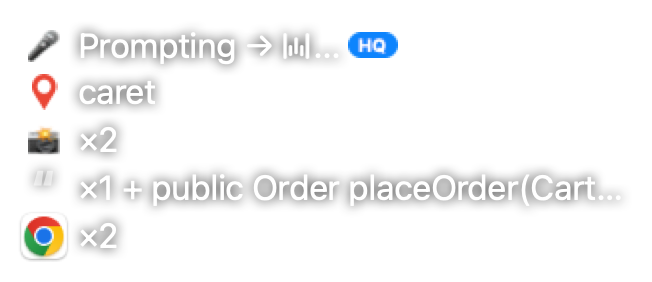
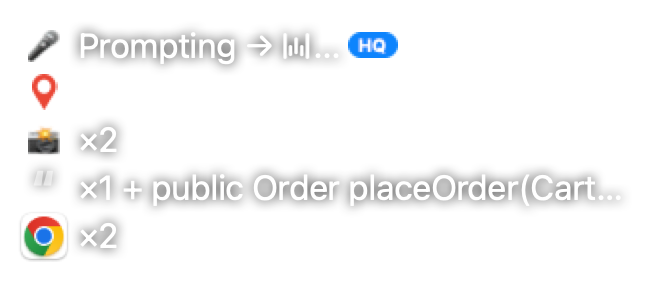
📍 The caret is the pin alone on the chip; 📸 ×1 flashes when picture zero lands
The caret row said `caret` behind the map pin; the pin says it. `bind to
send` wears the same pin and keeps its words. The automatic first frame's
count was quiet (booked before the file exists); the file on disk now
flashes the row's amber wash once.

Changed region(s): [[0.092, 0.2553, 0.2454, 0.3972]]

diff --git a/docs/overlay-states.html b/docs/overlay-states.html
@@ -613,9 +613,9 @@
       <section class="card" id="paste-again">
         <header>
           <h3>Re-paste — ⌘V, after every sentence</h3>
-          <div class="tags"><span class="tag tag-chip" title="bare text beside the cursor — no blur, no shadow, no ✕">chip</span><span class="tag">alpha 0.80</span><span class="tag">218×46 pt</span></div>
+          <div class="tags"><span class="tag tag-chip" title="bare text beside the cursor — no blur, no shadow, no ✕">chip</span><span class="tag">alpha 0.80</span><span class="tag">158×46 pt</span></div>
         </header>
-        <div class="shot"><img src="states/paste-again.png" width="218" height="46" style="opacity:0.8" alt="Re-paste — ⌘V, after every sentence"></div>
+        <div class="shot"><img src="states/paste-again.png" width="158" height="46" style="opacity:0.8" alt="Re-paste — ⌘V, after every sentence"></div>
         <p class="when">Five seconds after every delivered sentence (caret, bound terminal, new session, a held sentence&#x27;s release) and after a cancelled prompt. Never after a cancelled dictation.</p>
         <p class="note"><strong>Q17 (2026-09-28): the clipboard always holds the finished sentence</strong> — the envelope for a prompt, the clean words for a plain one — so the row says <code>Re-paste</code> and <code>⌘V</code>; ⌘⇧P is gone (it was <code>Re-paste ⌘⇧P</code> until 2026-09-28, <code>On the clipboard ⌘V</code> for a few hours, <code>Re-paste ⌘V</code> since). <strong>An ordinary row</strong>, built like <code>☠ Kamikaze</code>: 📋, the words, then the keys in the chip&#x27;s own face. It was a keycap in a window of its own until 2026-09-23 — a white outline round the keys in another font — and Victor read the border and the font as wrong. Unbound, it is the chip&#x27;s only row, which is what puts the chip beside the pointer.</p>
         <code class="slug">paste-again</code>
@@ -706,9 +706,9 @@
       <section class="card" id="prompt-inline">
         <header>
           <h3>The prompt, with its pictures where they were taken</h3>
-          <div class="tags"><span class="tag tag-panel" title="top-left of the screen, blurred, full opacity, ✕ on hover">panel</span><span class="tag">alpha 1.00</span><span class="tag">832×613 pt</span></div>
+          <div class="tags"><span class="tag tag-panel" title="top-left of the screen, blurred, full opacity, ✕ on hover">panel</span><span class="tag">alpha 1.00</span><span class="tag">749×581 pt</span></div>
         </header>
-        <div class="shot"><img src="states/prompt-inline.png" width="832" height="613" style="opacity:1" alt="The prompt, with its pictures where they were taken"></div>
+        <div class="shot"><img src="states/prompt-inline.png" width="749" height="581" style="opacity:1" alt="The prompt, with its pictures where they were taken"></div>
         <p class="when">Word timings placed the markers (ElevenLabs, local): every <code>[📸N…]</code> token in the words.</p>
         <p class="note">2026-10-07, Victor: the panel must show <em>where</em> each thing landed, to check the annotation. A picture token ends its paragraph, captions the picture drawn under it — the ✂ cut-out, or the frame — and the words carry on below. A highlight or a picked element is its own indented paragraph. Frames the words did not take (here the automatic one) stay in the strip. <strong>A frame&#x27;s caption no longer prints the pointer&#x27;s pixels</strong> (<code>[📸2]</code>, not <code>[📸2🖱@1204:388]</code> — 2026-10-17): a yellow dot on the picture says where it was; the agent&#x27;s words keep the numbers.</p>
         <code class="slug">prompt-inline</code>
@@ -736,9 +736,9 @@
       <section class="card" id="prompt-copied">
         <header>
           <h3>The prompt, with what he copied where he copied it</h3>
-          <div class="tags"><span class="tag tag-panel" title="top-left of the screen, blurred, full opacity, ✕ on hover">panel</span><span class="tag">alpha 1.00</span><span class="tag">832×427 pt</span></div>
+          <div class="tags"><span class="tag tag-panel" title="top-left of the screen, blurred, full opacity, ✕ on hover">panel</span><span class="tag">alpha 1.00</span><span class="tag">749×411 pt</span></div>
         </header>
-        <div class="shot"><img src="states/prompt-copied.png" width="832" height="427" style="opacity:1" alt="The prompt, with what he copied where he copied it"></div>
+        <div class="shot"><img src="states/prompt-copied.png" width="749" height="411" style="opacity:1" alt="The prompt, with what he copied where he copied it"></div>
         <p class="when">Auto-attach › Everything I Copy: text and an image copied while the prompt recorded.</p>
         <p class="note">2026-10-17, Victor: <em>&quot;also display the copied text or image from clipboard in the preview&quot;</em>. A copied image is a numbered picture like any other (<code>[📸N 📋 copied]</code>), drawn under its caption; copied text is its own indented paragraph, like a highlight — it used to run on as plain words, indistinguishable from what he said.</p>
         <code class="slug">prompt-copied</code>
@@ -746,9 +746,9 @@
       <section class="card" id="prompt-area-context">
         <header>
           <h3>The prompt, a ✂ area and the screen it was cut from</h3>
-          <div class="tags"><span class="tag tag-panel" title="top-left of the screen, blurred, full opacity, ✕ on hover">panel</span><span class="tag">alpha 1.00</span><span class="tag">501×319 pt</span></div>
+          <div class="tags"><span class="tag tag-panel" title="top-left of the screen, blurred, full opacity, ✕ on hover">panel</span><span class="tag">alpha 1.00</span><span class="tag">509×321 pt</span></div>
         </header>
-        <div class="shot"><img src="states/prompt-area-context.png" width="501" height="319" style="opacity:1" alt="The prompt, a ✂ area and the screen it was cut from"></div>
+        <div class="shot"><img src="states/prompt-area-context.png" width="509" height="321" style="opacity:1" alt="The prompt, a ✂ area and the screen it was cut from"></div>
         <p class="when">A wheel-drag area whose token is in the words.</p>
         <p class="note">2026-10-15, Victor: after the cut-out, the whole screen that goes with it — greyed outside the box, the box lit and ringed red — so it is plain that the entire screen is sent too. Drawn by <code>AreaContext</code>, never written to disk.</p>
         <code class="slug">prompt-area-context</code>
@@ -766,9 +766,9 @@
       <section class="card" id="prompt-move-context">
         <header>
           <h3>The prompt, a ⇧-drag move: red to green</h3>
-          <div class="tags"><span class="tag tag-panel" title="top-left of the screen, blurred, full opacity, ✕ on hover">panel</span><span class="tag">alpha 1.00</span><span class="tag">644×346 pt</span></div>
+          <div class="tags"><span class="tag tag-panel" title="top-left of the screen, blurred, full opacity, ✕ on hover">panel</span><span class="tag">alpha 1.00</span><span class="tag">651×348 pt</span></div>
         </header>
-        <div class="shot"><img src="states/prompt-move-context.png" width="644" height="346" style="opacity:1" alt="The prompt, a ⇧-drag move: red to green"></div>
+        <div class="shot"><img src="states/prompt-move-context.png" width="651" height="348" style="opacity:1" alt="The prompt, a ⇧-drag move: red to green"></div>
         <p class="when">A wheel-drag area with ⇧ / right-click, then a second box: <em>this, moved to there</em>.</p>
         <p class="note">2026-10-15, Victor: the whole screen in a thumbnail, the first box red, the second green, a white arrow from red to green — the same three colours the live overlay draws while he makes the gesture.</p>
         <code class="slug">prompt-move-context</code>
@@ -806,9 +806,9 @@
       <section class="card" id="prompt-long">
         <header>
           <h3>A long transcript</h3>
-          <div class="tags"><span class="tag tag-panel" title="top-left of the screen, blurred, full opacity, ✕ on hover">panel</span><span class="tag">alpha 1.00</span><span class="tag">832×153 pt</span></div>
+          <div class="tags"><span class="tag tag-panel" title="top-left of the screen, blurred, full opacity, ✕ on hover">panel</span><span class="tag">alpha 1.00</span><span class="tag">749×153 pt</span></div>
         </header>
-        <div class="shot"><img src="states/prompt-long.png" width="832" height="153" style="opacity:1" alt="A long transcript"></div>
+        <div class="shot"><img src="states/prompt-long.png" width="749" height="153" style="opacity:1" alt="A long transcript"></div>
         <p class="when">A sentence that does not fit one line — the panel wraps and grows.</p>
         <p class="note">Width is capped at a third of the screen and the height at what is left of it; the transcript row is measured by asking the label, not by a parallel calculation, because any disagreement is a sentence that silently stops.</p>
         <code class="slug">prompt-long</code>
@@ -845,7 +845,7 @@
       </section>
     </div>
 <footer>
-  Generated from <code>OverlayStates.swift</code> · repo at 8653edc · 22 Oct 2026 · built 22 Oct 2026, 11:28
+  Generated from <code>OverlayStates.swift</code> · repo at  · built 22 Oct 2026, 18:18
 </footer>
 <button class="toggle" onclick="document.body.classList.toggle('light')">Backdrop: dark / light</button>
 </body>

diff --git a/Sources/WalkieTalkie/RelayWindow.swift b/Sources/WalkieTalkie/RelayWindow.swift
@@ -4168,7 +4168,12 @@ private let heardLabel = NSTextField(labelWithString: "")
         // and for the length of that sentence the bound terminal is not where the
         // words are going — so a chip still naming it would be saying the one
         // thing this line exists to get right, wrongly.
-        if let spawn = spawnLabel { return spawn }
+        // **The caret is the pin alone** (2026-10-22, Victor: *"nu mai vreau să
+        // scrie efectiv caret, doar să apară acea iconiță. E evident că ăla
+        // este … locul în care se inseră"*) — the label stays set, so the row
+        // and the destination are still there, only unsaid. `bind to send` wears
+        // the same pin and keeps its words: no place is there to point at yet.
+        if let spawn = spawnLabel { return spawn == "caret" && spawnIcon === Self.pinGlyph ? "" : spawn }
         guard boundLabel != nil else { return "🤖 \(SessionLabel.value)" }
         // The terminal's own title first — `✳ walkie-talkie — Fix the tax
         // rounding` names the session, where `walkie-talkie@main` only names the
@@ -4454,6 +4459,16 @@ private let heardLabel = NSTextField(labelWithString: "")
     func clearSelection() { setSelection(nil, count: 0) }
 
     /// Start (or restart) one row's yellow flash — see `shotsPulse`.
+    /// **Picture zero has landed** (2026-10-22, Victor: *"când începe dictarea
+    /// și a făcut prima poză de început, să flash-ui pozele … să înțeleg că s-a
+    /// făcut o poză"*). The count rising at the open is quiet (`changePulseQuiet`)
+    /// because it is booked before the frame exists; the file on disk is the
+    /// news, so `captureContext` flashes the `📸 ×1` row when it is there.
+    func flashShots() {
+        guard listening || transcribing else { return }
+        flashChange(shotsPulse)
+    }
+
     private func flashChange(_ pulse: ChangePulse) {
         if Self.shooting && !changePulsePinned { return }
         pulse.startedAt = CACurrentMediaTime()

diff --git a/Sources/WalkieTalkie/AppDelegate.swift b/Sources/WalkieTalkie/AppDelegate.swift
@@ -7180,6 +7180,9 @@ final class AppDelegate: NSObject, NSApplicationDelegate {
             self.publishShotCount()
             guard let path = path else { return }
             Log.info("context screen captured: \((path as NSString).lastPathComponent)")
+            // …but the `📸 ×1` row flashes once it is on disk (2026-10-22) —
+            // queued behind `publishShotCount`'s hop, so the row is laid out.
+            DispatchQueue.main.async { [weak self] in self?.overlay.flashShots() }
             // **No flight for picture zero** (2026-09-23, Victor: *"poza
             // inițială din gesturile de prompting nu o mai anima ca vine spre
             // mouse. pune doar bulina galbenă"*). He did not press a shutter

diff --git a/.claude/rules/overlay-chip.md b/.claude/rules/overlay-chip.md
@@ -64,7 +64,7 @@ yields to `--label`).
 | dictating | `🎤 Prompting → ⬮...` — the device emoji, then the recogniser's logo (see *The microphone breathes in front of the word*, below); **which microphone is hearing him** (2026-09-22 evening; `Listening(<glyph>/<letter>)...` from 2026-09-19, the letter alone from 2026-09-18). 🎙 Elgato Wave XLR · 💻 the built-in · 🎤 the DJI receiver · 🎧 Bose. A device that is none of the four leaves the mark empty and the row is the plain `Listening...` — *listening to* with nothing after it is worse than not saying it. **Pushed in as a string by `AppDelegate`** — the chip may not ask which device it means (`RelayWindow.setMicMark`), and it is re-read at every `dictationBegan`, because cables move between sentences. **The glyph is drawn as a picture** (`Glyphs.emoji` → `inline`, cached in `wordGlyphs`), never as a character in the string, and it is **always lit** while the letters ramp: a picture has no unlit state that reads as *not yet*, and dimming it by alpha is the halo problem the opaque grey exists to avoid |
 | transcribing | `Transcribing via <logo>...` — **which recogniser is actually reading it** (2026-09-22 evening). The logo is drawn in **exactly the row's ink** (`Glyphs.Engine` → `Glyphs.engine`, cached per colour in `wordGlyphs`): ElevenLabs' pause-in-a-ring, Wispr Flow's five bars traced off its own icon, 💻 for the local model (with `ᵥ` for non-published weights). Pushed as a string by `AppDelegate` (`setEngineMark`), carried as a **private-use character** so the chip still cannot branch on which engine it is; `transcribeString` gained `applyEngineText`'s *non-ASCII is a picture* branch the day the mark landed on this row, because until then every character in it was ASCII |
 | the dictation was cancelled | `🗑 Cancelled` in the row `Listening…` was in — 1.5 s, swapped in and out **in one frame**; the oblique wipe that used to carry it both ways was removed on 2026-09-18 (*The chip swaps in one frame*). The 🗑 came back on 2026-09-02: it was dropped while a flash still drew the lone 🎙 title row above it, where Apple's lid-flying-off bin read as a second glyph on a two-glyph line; that row no longer appears under a flash, so the bin is the row's only picture |
-| dictating in Replace Wispr | the drawn map pin + `caret` (`at caret` until 2026-10-04, *"scoate doar at"*) — the same slot a spawn takes, and for the same reason |
+| dictating in Replace Wispr | **the drawn map pin alone** (2026-10-22, *"nu mai vreau să scrie efectiv caret, doar să apară acea iconiță"* — `identity` answers `""` for `caret` behind `pinGlyph` — `bind to send` keeps its words; `caret` behind it until then, `at caret` until 2026-10-04) — the same slot a spawn takes, and for the same reason |
 
 - **Dictating has no title of its own.** The top line stays `🤖 folder@branch` through the whole
   dictation; what changes lives one row down. Liveness is the pulsing 🔴 — a frozen recording row is
@@ -164,8 +164,10 @@ yields to `--label`).
   systemYellow 35 % to orange, α 0.6, radius 4) behind the icon and the words of `📸 ×N`
   (`setShotCount` going up), the quote row (`setSelection` with new text or a higher count — a copy
   is `📋 …` there) and the ⌘⇧ row (`setPicks`' `isNew`): 2.5 blinks over 1.5 s
-  (`changePulseDuration`, `changePulseBlinks`), ending dark. **Not the automatic first frame** — a
-  count rising inside `changePulseQuiet` (1 s) of the microphone opening is not news. A 30 Hz timer
+  (`changePulseDuration`, `changePulseBlinks`), ending dark. **Not the count booked for the automatic first frame** — a
+  count rising inside `changePulseQuiet` (1 s) of the microphone opening is not news; **the frame
+  landing on disk is** (same evening, *"să înțeleg că s-a făcut o poză"*): `captureContext` calls
+  `RelayWindow.flashShots()` after `context screen captured`, still no flight for picture zero. A 30 Hz timer
   on `.common` moves only the washes' frames and alpha, never `layoutContent`; `layoutContent` re-places
   them (a row that moved takes its wash). Shot `listening-change-pulse` (`pinChangePulse`, cleared by
   `unpinChangePulse` in the catalogue's reset — a pin left up put the wash on every later picture).
